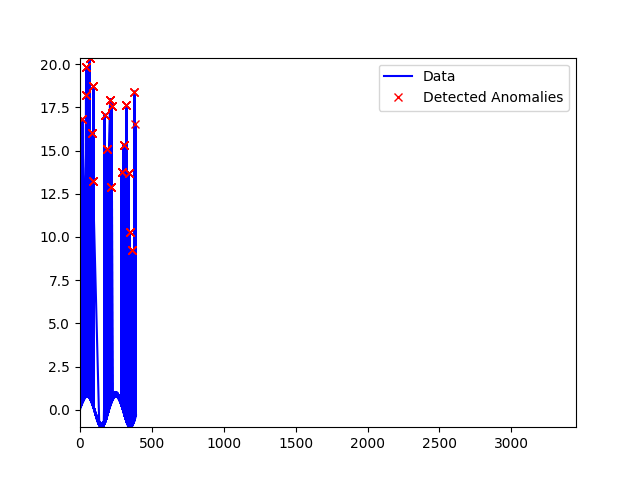
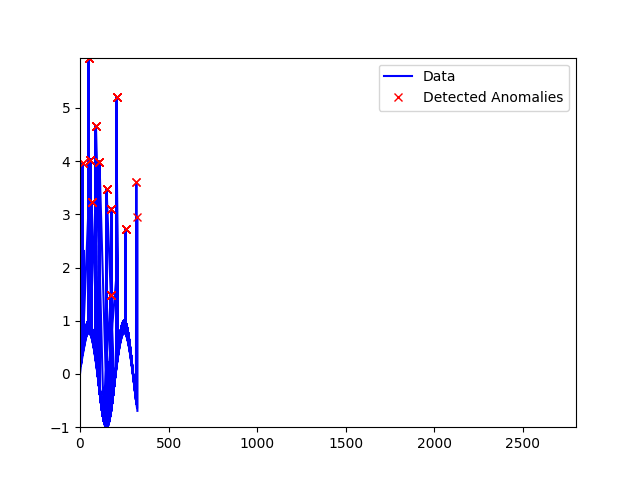
final commits

diff --git a/main.py b/main.py
@@ -2,8 +2,8 @@ import numpy as np
 import matplotlib.pyplot as plt
 import argparse
 
-# Function to simulate a real-time data stream with noise and injected anomalies
-def generate_real_time_data_stream(n_samples=1000, noise=0.003, anomaly_prob=0.05):
+
+def generate_real_time_data_stream(n_samples=1000, noise=0.001, anomaly_prob=0.05):
     """
     Generates a synthetic real-time data stream consisting of a noisy sine wave
     with randomly injected anomalies.
@@ -13,7 +13,7 @@ def generate_real_time_data_stream(n_samples=1000, noise=0.003, anomaly_prob=0.0
     n_samples : int, optional, default=1000
         The total number of data points to generate.
     
-    noise : float, optional, default=0.05
+    noise : float, optional, default=0.001
         The standard deviation of the Gaussian noise added to the sine wave.
     
     anomaly_prob : float, optional, default=0.05
@@ -33,12 +33,13 @@ def generate_real_time_data_stream(n_samples=1000, noise=0.003, anomaly_prob=0.0
         
         # Inject anomalies at random locations with a specified probability
         anomalies = np.random.choice([True, False], size=n_samples, p=[anomaly_prob, 1 - anomaly_prob])
-        X[anomalies] += np.random.uniform(10, 20, size=sum(anomalies))  # Inject large anomalies
+        X[anomalies] += np.random.uniform(1, 5, size=sum(anomalies))  # Decrease the range of injected anomalies
         
         return X, anomalies
     except Exception as e:
         print(f"Error generating data stream: {e}")
         return np.array([]), np.array([])
+
 
 # Z-score based anomaly detection
 def z_score_anomaly_detection(data, threshold=2):
